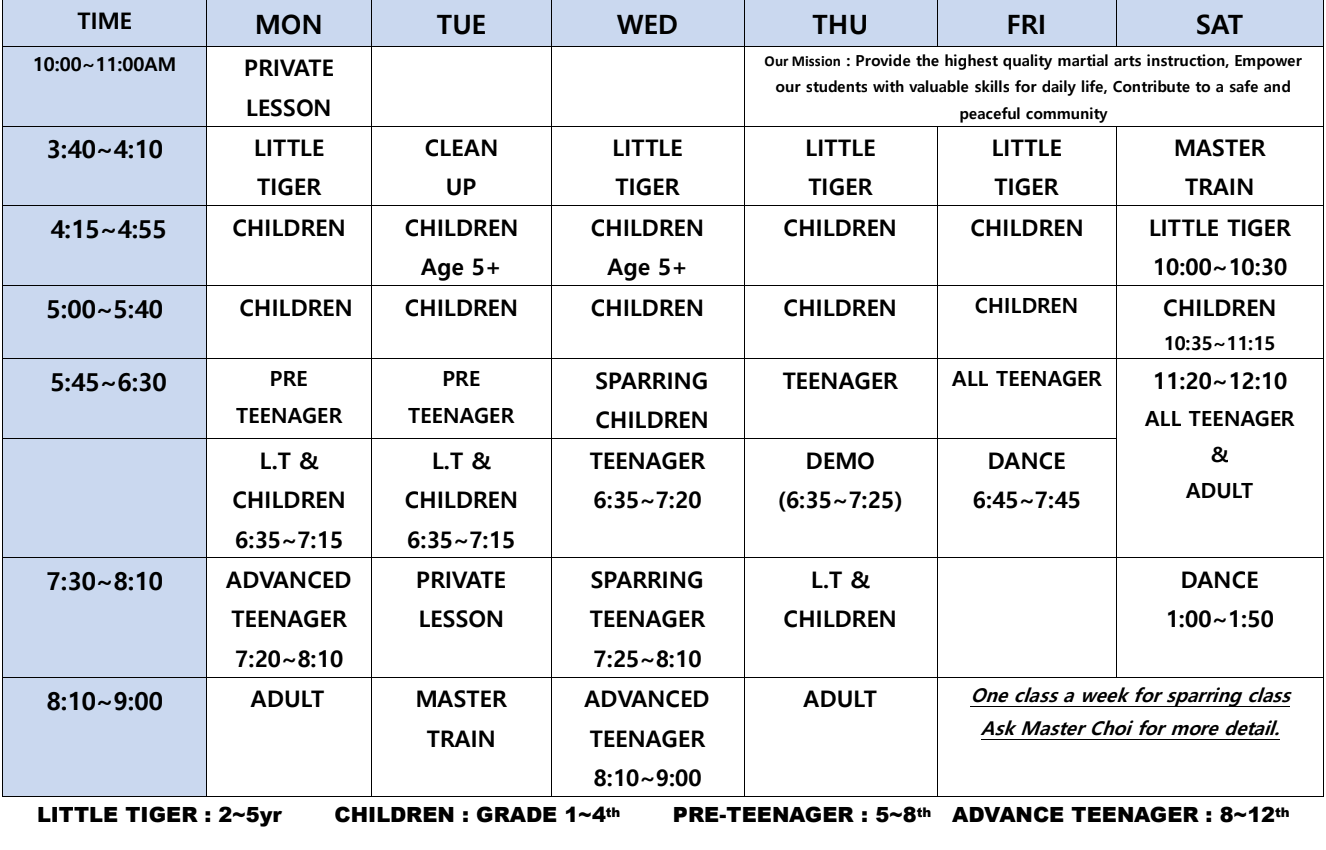
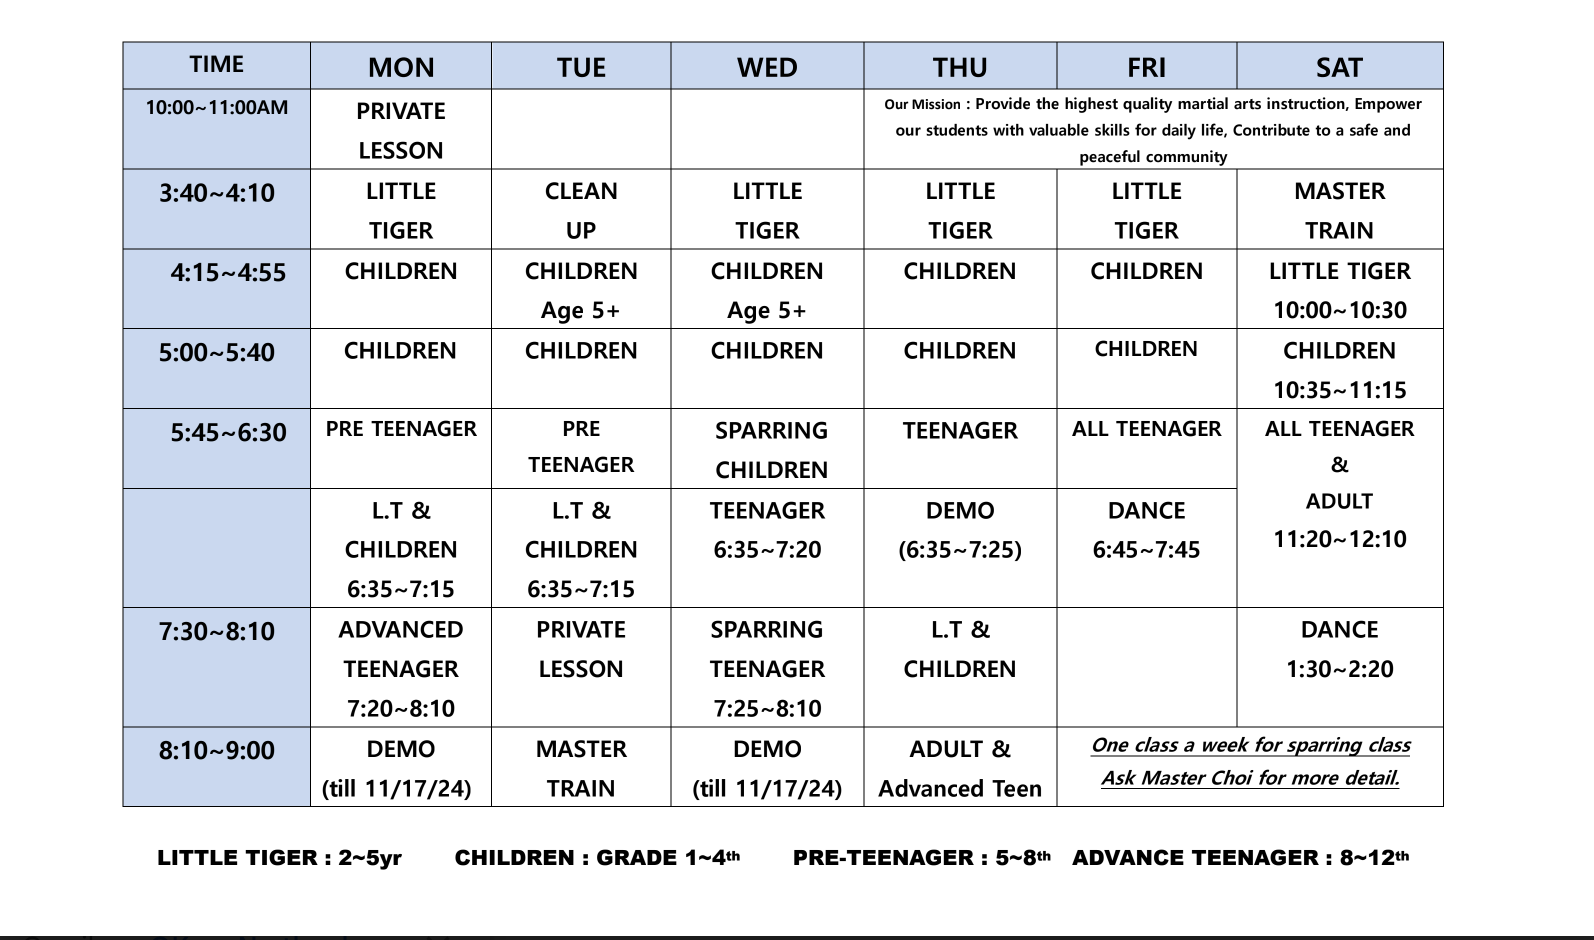
update sept. 2024 events

diff --git a/src/Components/Pages/Schedule/Schedule.tsx b/src/Components/Pages/Schedule/Schedule.tsx
@@ -8,15 +8,20 @@ const eventsInfo = [
   {
     title: "KPOP - Dance:",
     details: [
-      "Friday 5:45-6:45pm (08/2,9,23,30)",
-      "Ateez - Crazy Form & Work",
-      "Saturday 1:00pm-1:50pm (08/31~09/21)",
+      "Friday 6:45-7:45pm (09/06 ~ 09/27)",
+      "NCT 127 ",
+      "Saturday 1:30pm-2:20pm (08/31 ~ 09/21)",
       "TXT - I will see you tomorrow",
     ],
   },
   {
     title: currentMonth + " Events:",
-    details: ["08/29 - Promotion Test: Teens and Children", "", "", ""],
+    details: [
+      "09/02 - No Class (Labor Day)",
+      "09/03 - Back to School Schedule",
+      "09/23-28 - Buddy Week",
+      "",
+    ],
   },
   {
     title: "JL Meeting:",
